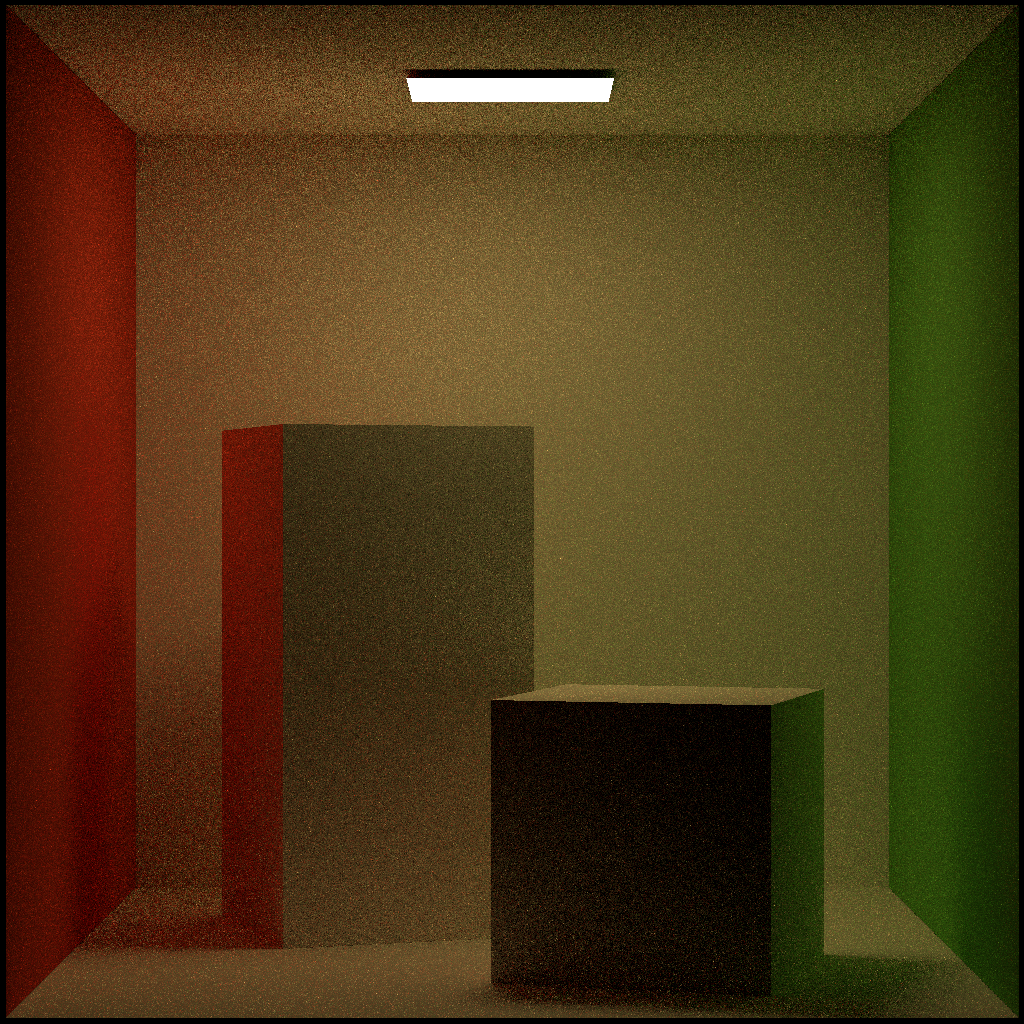
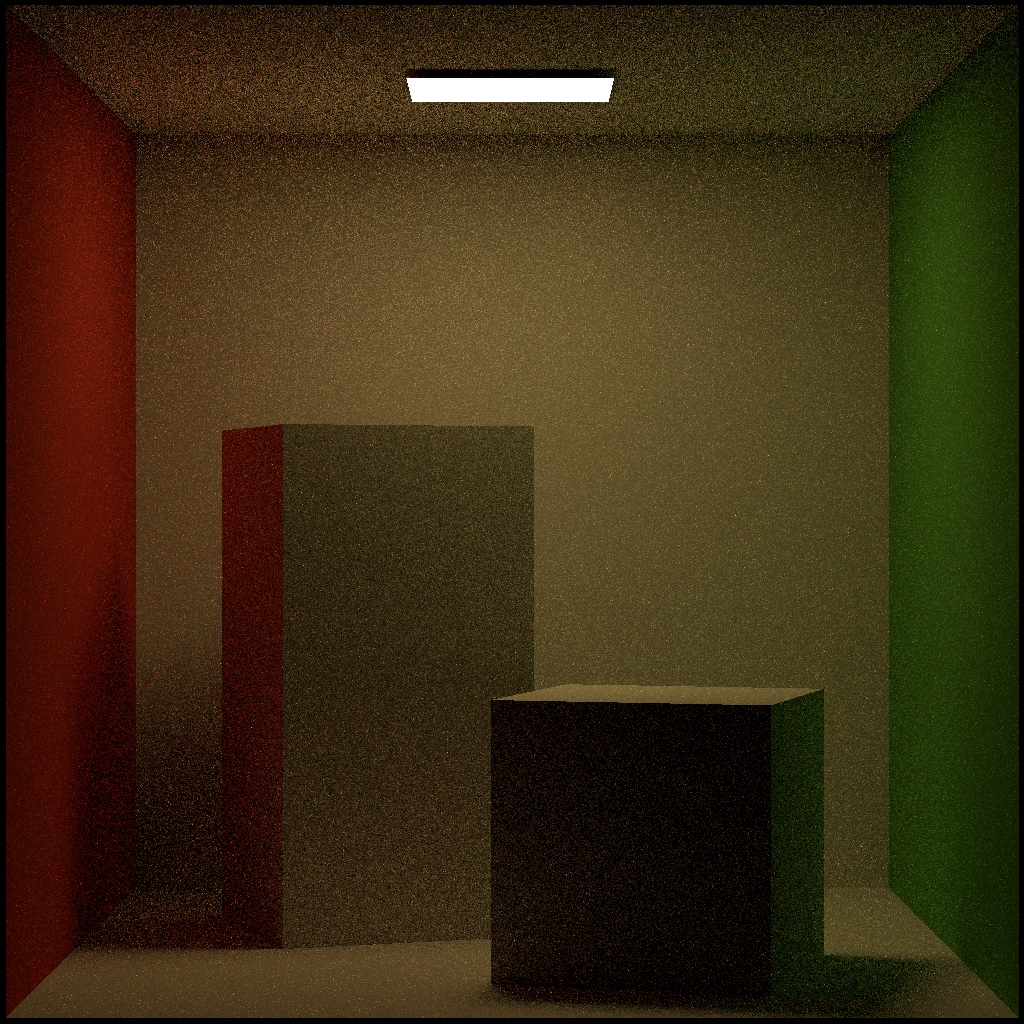
mis-1

diff --git a/cg-final/render/ray_tracer.hpp b/cg-final/render/ray_tracer.hpp
@@ -36,6 +36,11 @@ public:
 			return zero;
 		}
 
+		if (glm::dot(ray.getDirection(), hit.getNormal()) > 0) {
+			glm::vec3 zero(0, 0, 0);
+			return zero;
+		}
+
 		if (!hit.getMaterial()->is_light) {
 
 			glm::vec3 color(0, 0, 0);
@@ -62,7 +67,7 @@ public:
 
 				bool intersect2 = scene->group_intersect_grid(ray2, hit2, epsilon);
 
-				if (intersect2 && glm::dot(hit2.getNormal(), ldir) < 0.f && posive(hit2.getT() - Dis2Lit) < 0.0001) {
+				if (intersect2 && glm::dot(hit2.getNormal(), ldir) < 0.f && posive(hit2.getT() - Dis2Lit) < 0.001) {
 					auto cos_theta = glm::dot((-1.f) * ldir, hit2.getNormal());
 					auto area = scene->light_areas[k];
 					pdf_light = powf(Dis2Lit, 2) / cos_theta / area;
@@ -107,11 +112,13 @@ public:
 					auto theta = acosf(powf(r1, 1.0f / (shininess + 1)));
 					auto alpha = 2 * M_PI * r2;
 					auto next_h = glm::vec3(cosf(alpha) * sinf(theta), sinf(alpha) * sinf(theta), cosf(theta));
+					next_h = glm::normalize(next_h);
 
 					next_h = rot_matrix * next_h;
 
 					auto in_ray = ray.getDirection();
 					next_dir = in_ray - 2.f * glm::dot(in_ray, next_h) * next_h;
+					next_dir = glm::normalize(next_dir);
 
 				}
 

diff --git a/cg-final/cg-final.cpp b/cg-final/cg-final.cpp
@@ -67,7 +67,7 @@ int main()
                 }
             }
 
-            color = glm::clamp(color * 50.f, glm::vec3(0.f), glm::vec3(1.f));
+            color = glm::clamp(color, glm::vec3(0.f), glm::vec3(1.f));
             auto to_srgb = [](float linear) -> float {
                 float s;
                 if (linear <= 0.0031308) {
